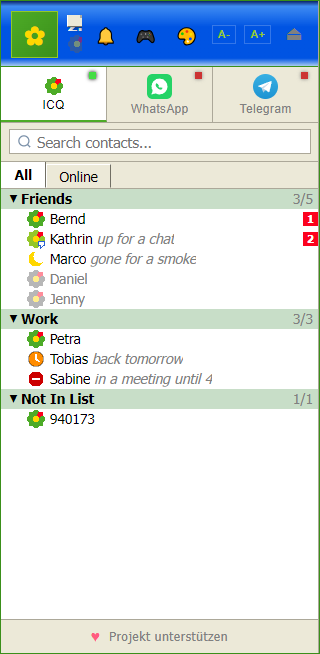
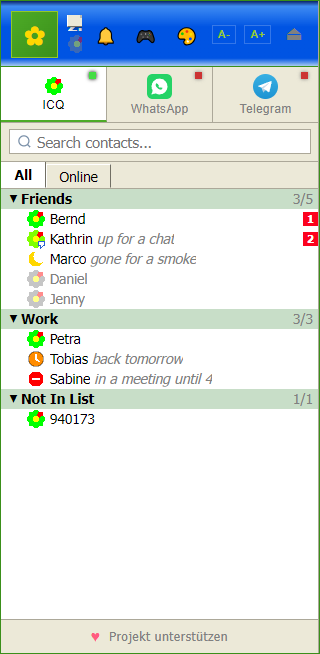
fix: use the flower colours measured from a real ICQ asset
The status icons used #4DAB27 for the petals and #FC021E for the odd one.
Those are real ICQ colours — from the icq.com *website* palette of 2006,
pulled out of an archived navbut_colors[] array. They are not the colours the
application used, and six years too late: the muted greens made the flower
read as 2006 rather than 2001.

Measured instead, pixel by pixel, from the ICQ 2001b splash screen archived at
guidebookgallery.org: petals #00FF00 (199px), the odd petal #FF0000 (47px),
centre #FFFF00 (23px). Pure 8-bit primaries, which is exactly what a late-90s
Windows application would have used.

docs/ORIGINAL-REFERENCE.md records this and the rest of what could be
established, with the method and the source for each value — including the
per-version splash palettes, which show the visual break between ICQ 2002a and
2003a where the classic era ends.

It also records the German findings, and one of them changes the plan: the
early German ICQ was NOT fully translated. The 99b-2001b tray menu stayed in
English — "Open ICQ", "Check Email", "Always on Top". Full German localisation
only arrived with ICQ 5 and properly with ICQ 6. Translating everything would
therefore be less faithful, not more. Verified German terms are listed;
everything unverified is marked as such, because a plausible-looking wrong
translation will survive into a release where a gap would not.

Changed region(s): [[0.0938, 0.4893, 0.1562, 0.6728], [0.0625, 0.3058, 0.1562, 0.3976], [0.125, 0.1223, 0.2188, 0.1529]]

diff --git a/src/components/icq/StatusIcon.js b/src/components/icq/StatusIcon.js
@@ -16,16 +16,32 @@ import React from 'react';
  * pixel is the difference between a crisp icon and a smudged one.
  */
 
+/**
+ * The flower's colours, measured from a real ICQ asset rather than guessed.
+ *
+ * Extracted pixel-by-pixel from the ICQ 2001b splash screen
+ * (guidebookgallery.org/pics/splashes/icq/2001b.png): the petals are #00FF00,
+ * the one odd petal is #FF0000, and the centre is #FFFF00 — pure 8-bit
+ * primaries, which is exactly what a late-90s Windows application would use.
+ *
+ * An earlier version of this file used #4DAB27 and #FC021E, taken from the
+ * icq.com *website* palette of 2006. That was a real mistake worth recording:
+ * a brand's website colours are not its application's colours, and the muted
+ * greens made the flower read as 2006 rather than 2001.
+ */
 const PALETTE = {
-  online: '#4DAB27',
-  chat: '#94C729',
+  online: '#00FF00',
+  chat: '#7FFF00',
   away: '#FFD700',
   na: '#FF8C00',
   occupied: '#FF4500',
-  dnd: '#CC0000',
+  dnd: '#FF0000',
   invisible: '#808080',
-  offline: '#606060',
+  offline: '#808080',
 };
+
+/** VERIFIED from the 2001b splash: petal, odd petal, centre. */
+const FLOWER = { petal: '#00FF00', oddPetal: '#FF0000', centre: '#FFFF00' };
 
 /** Petal positions for the flower, at 45-degree steps around the centre. */
 const PETALS = [
@@ -46,10 +62,12 @@ function Flower({ colour, dim }) {
           cx={cx}
           cy={cy}
           r="2.4"
-          fill={i === 1 ? '#FC021E' : colour}
+          // The single odd petal. On the real logo it sits top-right of the
+          // centre, and it is the detail everyone remembers.
+          fill={i === 1 ? FLOWER.oddPetal : colour}
         />
       ))}
-      <circle cx="8" cy="8" r="2.6" fill="#FFD700" />
+      <circle cx="8" cy="8" r="2.6" fill={FLOWER.centre} />
     </g>
   );
 }
@@ -159,4 +177,4 @@ export default function StatusIcon({ status = 'offline', size = 16, title, class
   );
 }
 
-export { PALETTE as STATUS_COLOURS };
+export { PALETTE as STATUS_COLOURS, FLOWER };

diff --git a/docs/ORIGINAL-REFERENCE.md b/docs/ORIGINAL-REFERENCE.md
@@ -1,0 +1,135 @@
+# What the original actually looked like
+
+Reference notes for rebuilding ICQ's interface. Everything here is either
+**measured** from an original asset, **verified** against a primary source, or
+explicitly marked as **unverified**.
+
+The rule this file exists to enforce: a confident guess is worse than an honest
+gap. A wrong colour or a wrong German string that *looks* plausible will
+survive into the release; a gap gets filled later.
+
+---
+
+## Colours measured from original assets
+
+Method: the splash screens archived at
+`guidebookgallery.org/pics/splashes/icq/` were fetched and read pixel by pixel.
+Counts are of fully-opaque pixels.
+
+### The flower — VERIFIED, ICQ 2001b splash
+
+| Part | Colour | Evidence |
+|---|---|---|
+| Petals | `#00FF00` | 199 px, the dominant saturated colour |
+| The one odd petal | `#FF0000` | 47 px |
+| Centre | `#FFFF00` | 23 px |
+| Shading under the odd petal | `#840000` | 19 px |
+
+Pure 8-bit primaries — which is exactly right for a late-90s Windows
+application, and quite unlike a modern brand palette.
+
+**A mistake worth recording.** An earlier version of this project used
+`#4DAB27` for the petals and `#FC021E` for the odd one, taken from the
+`navbut_colors[]` array in archived icq.com JavaScript from 2006. Those are
+real ICQ colours — but they are the *website's*, six years later. The muted
+greens made the flower read as 2006 rather than 2001. A brand's website palette
+is not its application's palette, and the two must not be mixed.
+
+### Window chrome — VERIFIED
+
+| Colour | Where | Evidence |
+|---|---|---|
+| `#C0C0C0` | 3D face grey | 9.5% of the ICQ 2000b splash — the Windows 98 system face colour |
+| `#FFFFFF` | Highlight edge | dominant in every classic-era splash |
+
+### Per-version splash palettes — measured
+
+| Version | Size | Notable |
+|---|---|---|
+| 99a beta | 124×100 | `#940063`, `#CE0029`, `#FFFF00` — magenta/red, a different look entirely |
+| 2000b beta | 123×123 | `#C0C0C0` grey field — the Win98 look |
+| 2001b | 127×117 | Blue radial field `#7895BD`, flower in pure primaries |
+| 2002a | 182×46 | Slim bar, grey `#8C8C8C`/`#9F9F9F`, green `#28FF28` |
+| 2003a Pro | 182×47 | Light blue `#45B2E9`/`#A4D9F4` — the palette begins shifting |
+| 5 Lite | 233×182 | Near-white `#F1F2F3`, blue `#01407F` — a different era already |
+
+The break between 2002a and 2003a is visible in the numbers: the classic era
+ends there.
+
+---
+
+## German strings
+
+**The important finding: the early German ICQ was not fully translated.**
+
+The tray menu of the 99b–2001b era stayed in English — "Open ICQ", "Check
+Email", "Always on Top", "Auto Minimize". Full German localisation arrived with
+ICQ 5, and properly with ICQ 6. So a German-language recreation of the classic
+era should *not* translate everything: it would be less faithful, not more.
+
+Primary source for the verified entries: Catweazle's German ICQ tutorial
+(`an00716.hp.altmuehlnet.de/icq/i_taskls.htm`, c. 1999–2001), corroborated in
+places by ETH Zürich course material from 2000–2001.
+
+### Verified
+
+| English | German | Source |
+|---|---|---|
+| Away | `abwesend` | "Schaltet Dich auf abwesend" |
+| Occupied | `beschäftigt` | "für andere bist Du als 'beschäftigt' zu sehen" |
+| Invisible | `unsichtbar` | "Macht Dich für alle anderen User 'unsichtbar'" |
+| Online | `online` | "Schaltet Dich auf online" |
+| DND | `DND` | kept as the abbreviation in German text |
+| Privacy | `Privacy` | English term used inside German prose |
+| Contact List | `Kontaktliste` | both sources |
+| File transfer | `Dateiübertragung` | ETH Zürich |
+| System menu | `System-Menü` | Catweazle |
+
+### Verified as staying English (99b–2001b tray menu)
+
+`Open ICQ` · `Check Email` · `Play Sounds` · `Contact List Popup` ·
+`Response Dialog Popup` · `Auto Minimize` · `Always on Top` ·
+`Status "Floating" On` · `Preferences`
+
+### Not verified — do not invent
+
+Free For Chat, N/A, the flower-button menu labels, the Add/Find dialog title,
+and every Preferences tab label in either era. Where a German string is not in
+the verified table above, use English and mark it for later verification. A
+plausible-looking wrong translation is worse than an untranslated label,
+because nobody will ever go back and check it.
+
+---
+
+## The ProSieben edition — what to leave out
+
+Verified: launched 5 December 2005, built on **ICQ 5**, in partnership with
+SevenOne Intermedia GmbH. A Sat.1 edition followed on ICQ 6.
+
+It changed only two things, and both are the things to avoid:
+
+- a ProSieben-branded skin
+- the ICQ Welcome Screen, filled with ProSieben.de content — Kino, TV, Games,
+  Musik, Wetter, Horoskope — on every start
+
+Functionally it was identical to the ordinary German-patched ICQ 5. Contemporary
+German forum posts put it plainly: the ProSieben version had no functional
+changes over the patched German release.
+
+**Not the same thing:** "ICQ Pro 2003b" is a version name, released before the
+ProSieben deal and English-only. The "Pro" is unrelated to ProSieben.
+
+---
+
+## Sources that did not deliver
+
+Recorded so the same ground is not covered twice:
+
+- GUIdebook has ICQ **splash screens only**. Its `/apps/icq`, `/guis/…/icq/`
+  and `/screens/icq/` pages are all 404.
+- No German-locale screenshot of a contact list or preferences dialog could be
+  confirmed at winfuture.de, chip.de, computerbild.de, netzwelt.de, giga.de,
+  heise.de, pcwelt.de, dr-windows.de, WinWorld or oldversion.com.
+- The German Wikipedia article on ICQ carries no screenshots.
+- icq.de in the Wayback Machine was a thin marketing landing page with no
+  interface content.
